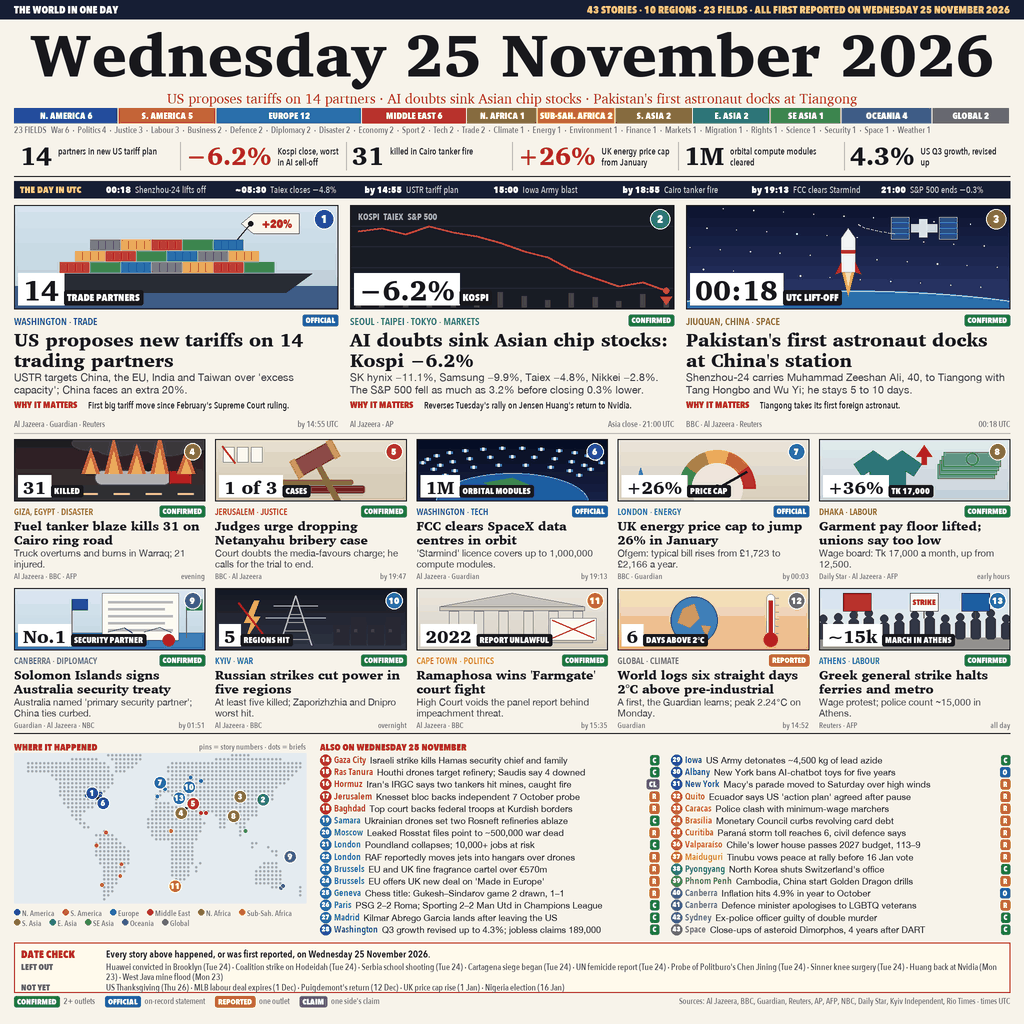
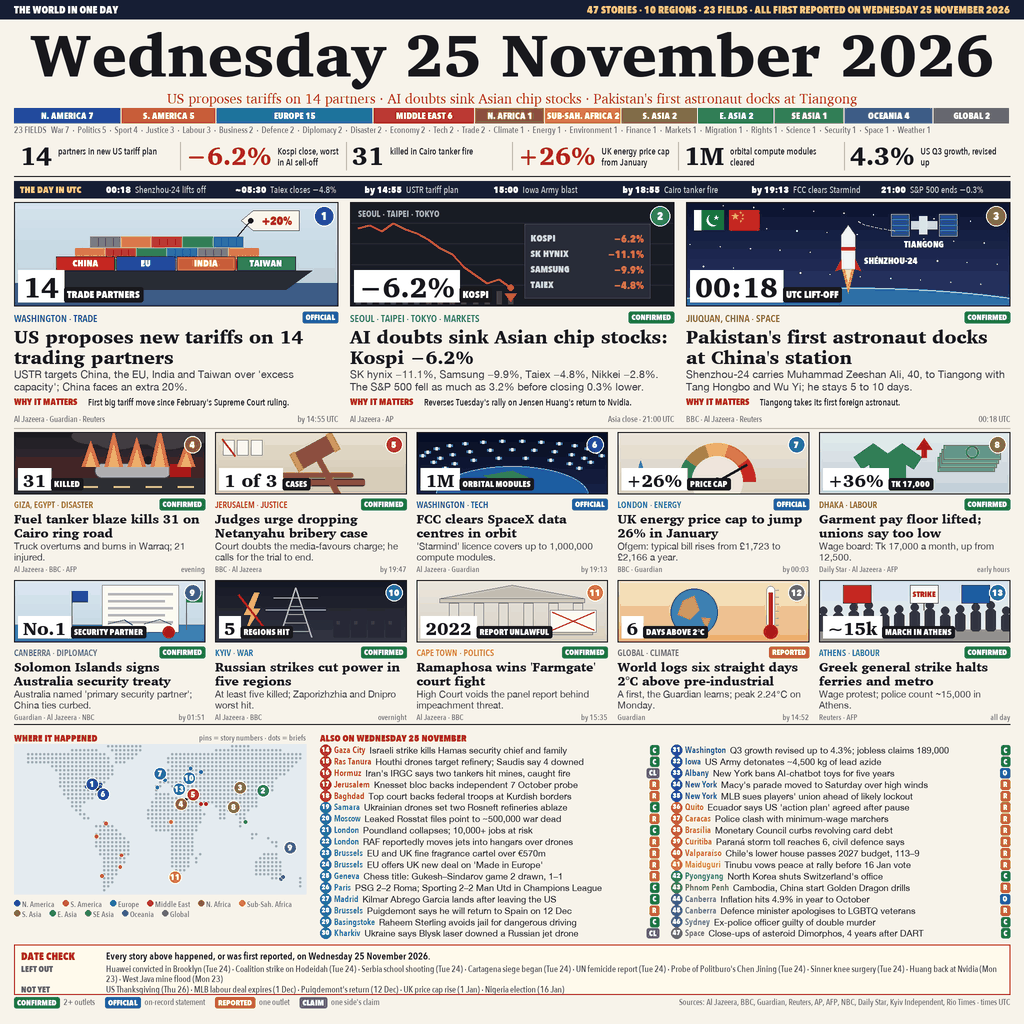
v5: labelled lead pictures (target names, ticker board, flags), 47 stories

diff --git a/render.py b/render.py
@@ -64,6 +64,15 @@ def ellipse(x, y, w, h, fill=None, outline=None, width=1):
     d.ellipse(P(x, y, x + w, y + h), fill=fill, outline=outline, width=round(width * S))
 
 
+def star(cx, cy, r, fill):
+    pts = []
+    for k in range(10):
+        a = -math.pi / 2 + k * math.pi / 5
+        rr = r if k % 2 == 0 else r * 0.42
+        pts.append((cx + rr * math.cos(a), cy + rr * math.sin(a)))
+    poly(pts, fill=fill)
+
+
 def tw(s, f):
     return d.textlength(s, font=f) / S
 
@@ -216,10 +225,14 @@ BRIEFS = [
     ("Geneva", "Europe", "Sport", "REPORTED", "Chess title: Gukesh–Sindarov game 2 drawn, 1–1", "Guardian", (46.2, 6.1)),
     ("Paris", "Europe", "Sport", "CONFIRMED", "PSG 2–2 Roma; Sporting 2–2 Man Utd in Champions League", "AJ, Guardian", (48.9, 2.3)),
     ("Madrid", "Europe", "Migration", "CONFIRMED", "Kilmar Abrego Garcia lands after leaving the US", "AJ, Reuters", (40.4, -3.7)),
+    ("Brussels", "Europe", "Politics", "REPORTED", "Puigdemont says he will return to Spain on 12 Dec", "AJ", (50.8, 4.4)),
+    ("Basingstoke", "Europe", "Sport", "CONFIRMED", "Raheem Sterling avoids jail for dangerous driving", "Guardian, BBC", (51.3, -1.1)),
+    ("Kharkiv", "Europe", "War", "CLAIM", "Ukraine says Blysk laser downed a Russian jet drone", "AJ", (50.0, 36.2)),
     ("Washington", "N. America", "Economy", "CONFIRMED", "Q3 growth revised up to 4.3%; jobless claims 189,000", "Boston Report, NTD", (38.9, -77.0)),
     ("Iowa", "N. America", "Environment", "CONFIRMED", "US Army detonates ~4,500 kg of lead azide", "AJ, BBC", (41.0, -91.0)),
     ("Albany", "N. America", "Tech", "OFFICIAL", "New York bans AI-chatbot toys for five years", "Guardian", (42.7, -73.8)),
     ("New York", "N. America", "Weather", "REPORTED", "Macy's parade moved to Saturday over high winds", "Guardian", (40.7, -74.0)),
+    ("New York", "N. America", "Sport", "REPORTED", "MLB sues players' union ahead of likely lockout", "Guardian", (40.7, -74.0)),
     ("Quito", "S. America", "Security", "REPORTED", "Ecuador says US 'action plan' agreed after pause", "AJ", (-0.2, -78.5)),
     ("Caracas", "S. America", "Labour", "REPORTED", "Police clash with minimum-wage marchers", "AJ", (10.5, -66.9)),
     ("Brasília", "S. America", "Finance", "REPORTED", "Monetary Council curbs revolving card debt", "Rio Times", (-15.8, -47.9)),
@@ -297,6 +310,13 @@ def pic_tariff(x, y, w, h):
             for k in range(1, 4):
                 line([(cx + k * cw / 4, cy + 1.5), (cx + k * cw / 4, cy + ch - 2.5)],
                      fill=tuple(max(0, v - 45) for v in col), width=0.7)
+    # front row: the named targets
+    names = [("CHINA", (196, 40, 40)), ("EU", (30, 70, 160)), ("INDIA", (220, 120, 30)), ("TAIWAN", (40, 120, 90))]
+    fw_ = w * 0.18
+    for i, (nm, col) in enumerate(names):
+        fx = x + w * 0.13 + i * (fw_ + 2)
+        rect(fx, hull_y - ch * 1.25, fw_, ch * 1.25, fill=col, outline=(20, 20, 24), width=0.5)
+        text(fx + fw_ / 2, hull_y - ch * 0.62, nm, font("heavy", 9.5), (255, 255, 255), anchor="mm")
     # tariff tag
     tx, ty = x + w * 0.70, y + h * 0.08
     poly([(tx, ty + 10), (tx + 12, ty), (tx + 58, ty), (tx + 58, ty + 20), (tx + 12, ty + 20)],
@@ -341,6 +361,21 @@ def pic_rocket(x, y, w, h):
         p0 = (rx + 10 + (sx - rx - 26) * t0, ry - 4 - (ry - sy - 10) * t0 ** 0.6)
         p1 = (rx + 10 + (sx - rx - 26) * t1, ry - 4 - (ry - sy - 10) * t1 ** 0.6)
         line([p0, p1], fill=(230, 230, 255), width=0.8)
+    text(sx + 11, sy + 16, "TIANGONG", font("heavy", 9), (255, 255, 255), anchor="mt")
+    text(rx + 16, ry + 36, "SHENZHOU-24", font("heavy", 9), (255, 255, 255), anchor="lm")
+    # flags: Pakistan and China
+    fx, fy, fw_, fh = x + 8, y + 8, 30, 20
+    rect(fx, fy, fw_, fh, fill=(255, 255, 255))
+    rect(fx + fw_ * 0.25, fy, fw_ * 0.75, fh, fill=(1, 102, 56))
+    cx_, cy_ = fx + fw_ * 0.62, fy + fh * 0.5
+    ellipse(cx_ - 6, cy_ - 6, 12, 12, fill=(255, 255, 255))
+    ellipse(cx_ - 4, cy_ - 7.5, 12, 12, fill=(1, 102, 56))
+    star(cx_ + 3.5, cy_ - 2.5, 2.4, (255, 255, 255))
+    gx = fx + fw_ + 5
+    rect(gx, fy, fw_, fh, fill=(222, 41, 16))
+    star(gx + 6, fy + 6, 3.6, (255, 222, 0))
+    for sx2, sy2 in ((11.5, 2.5), (13.5, 5), (13.5, 8.5), (11.5, 11)):
+        star(gx + sx2, fy + sy2, 1.2, (255, 222, 0))
 
 
 def pic_markets(x, y, w, h):
@@ -349,8 +384,16 @@ def pic_markets(x, y, w, h):
         line([(x, y + k * h / 5), (x + w, y + k * h / 5)], fill=(50, 56, 68), width=0.6)
     pts = []
     vals = [0.25, 0.22, 0.28, 0.20, 0.26, 0.30, 0.36, 0.44, 0.50, 0.62, 0.70, 0.78, 0.74, 0.82]
+    cwid = w * 0.52                              # chart on the left, ticker board on the right
     for i, v in enumerate(vals):
-        pts.append((x + 8 + i * (w - 16) / (len(vals) - 1), y + h * v))
+        pts.append((x + 8 + i * (cwid - 16) / (len(vals) - 1), y + h * v))
+    bx, bw = x + cwid + 6, w - cwid - 30
+    rect(bx, y + 22, bw, h - 30, fill=(40, 44, 56), outline=(80, 86, 100), width=0.6)
+    for k, (nm, val) in enumerate((("KOSPI", "−6.2%"), ("SK HYNIX", "−11.1%"), ("SAMSUNG", "−9.9%"),
+                                   ("TAIEX", "−4.8%"))):
+        yy = y + 30 + k * (h - 42) / 4
+        text(bx + 6, yy, nm, font("heavy", 9.5), (210, 214, 224))
+        text(bx + bw - 6, yy, val, font("heavy", 10.5), (255, 96, 80), anchor="ra")
     for i, (px, py) in enumerate(pts):          # volume bars
         bh = 6 + (i * 7 % 11)
         rect(px - 2.5, y + h - bh - 2, 5, bh, fill=(80, 60, 66) if i > 5 else (60, 80, 70))
@@ -358,7 +401,7 @@ def pic_markets(x, y, w, h):
     ex, ey = pts[-1]
     ellipse(ex - 3, ey - 3, 6, 6, fill=(235, 70, 60))
     poly([(ex - 6, ey + 6), (ex + 6, ey + 6), (ex, ey + 14)], fill=(235, 70, 60))
-    text(x + 8, y + 6, "KOSPI  TAIEX  S&P 500", font("bold", 9), (170, 176, 190))
+    text(x + 8, y + 6, "SEOUL · TAIPEI · TOKYO", font("bold", 9), (170, 176, 190))
 
 
 def pic_fire(x, y, w, h):
@@ -769,7 +812,7 @@ for i, (t, s) in enumerate(UTC):
          anchor="lm", maxw=seg - tw(t, font("heavy", 9.5)) - 8, tag="utc" + t)
 
 # leads
-ly, lh = uy + 24, 222
+ly, lh = uy + 21, 220
 gap = 12
 lw = (W - 2 * M - 2 * gap) / 3
 for i, s in enumerate(LEADS):
@@ -777,15 +820,15 @@ for i, s in enumerate(LEADS):
 line([(M, ly + lh + 6), (W - M, ly + lh + 6)], RULE, 0.8)
 
 # cards: two rows of five
-cy0, ch = ly + lh + 12, 140
+cy0, ch = ly + lh + 10, 140
 cg = 10
 cwid = (W - 2 * M - 4 * cg) / 5
 for i, s in enumerate(CARDS):
     r, c = divmod(i, 5)
-    small_card(s, M + c * (cwid + cg), cy0 + r * (ch + 9), cwid, ch)
+    small_card(s, M + c * (cwid + cg), cy0 + r * (ch + 8), cwid, ch)
 
 # bottom band: map + numbered briefs
-by = cy0 + 2 * ch + 9 + 9
+by = cy0 + 2 * ch + 8 + 8
 line([(M, by - 4), (W - M, by - 4)], INK, 1.2)
 mw, mh = 292, 150
 text(M, by + 4, "WHERE IT HAPPENED", font("heavy", 9.5), RED)
@@ -809,14 +852,14 @@ bx = M + mw + 14
 text(bx, by + 4, "ALSO ON WEDNESDAY 25 NOVEMBER", font("heavy", 9.5), RED)
 colw = (W - M - bx - 12) / 2
 per_col = math.ceil(len(BRIEFS) / 2)
-cityf = font("demi", 9.4)
-bf = font("sans", 9.0)
+cityf = font("demi", 9.2)
+bf = font("sans", 8.9)
 LETTER = {"CONFIRMED": "C", "OFFICIAL": "O", "REPORTED": "R", "CLAIM": "CL"}
 for i, (city, reg, fld, st, t, src, _) in enumerate(BRIEFS):
     n = len(ALL) + 1 + i
     col, row = divmod(i, per_col)
     xx = bx + col * (colw + 12)
-    yy = by + 18 + row * 12.1
+    yy = by + 17 + row * 11.45
     ellipse(xx, yy - 0.5, 11, 11, fill=RCOL[reg])
     text(xx + 5.5, yy + 5, str(n), font("heavy", 7.2), (255, 255, 255), anchor="mm")
     text(xx + 14, yy + 5, city, cityf, RCOL[reg], anchor="lm")
@@ -827,7 +870,7 @@ for i, (city, reg, fld, st, t, src, _) in enumerate(BRIEFS):
     chip(xx + colw, yy, lt, STATUS[st], f=font("heavy", 7.5), h=10, pad=2.5, anchor_right=True)
 
 # date check
-dy = by + 18 + per_col * 12.1 + 6
+dy = by + 17 + per_col * 11.45 + 5
 dh = 50
 rect(M, dy, W - 2 * M, dh, fill=(255, 250, 236), outline=RED, width=1.2)
 text(M + 7, dy + 5, "DATE CHECK", font("heavy", 10.5), RED)
@@ -839,7 +882,7 @@ text(M + 7, dy + 39.5, "NOT YET", font("heavy", 8.6), GREY)
 text(M + 92, dy + 39, NOT_YET, font("med", 8.8), (60, 60, 66), maxw=W - 2 * M - 100, tag="notyet")
 
 # legend + sources
-gy = dy + dh + 9
+gy = dy + dh + 8
 x0 = M
 for k, v in STATUS.items():
     x0 += chip(x0, gy - 5.5, k, v, f=font("heavy", 7.8), h=11) + 4

diff --git a/FACTS.md b/FACTS.md
@@ -43,6 +43,10 @@ by the body concerned · **REPORTED** = one outlet · **CLAIM** = one side's sta
 | Paraná: storm toll reaches 6, civil defence confirms 25 Nov | Rio Times; AFP via Insider Paper | REPORTED |
 | RAF reportedly moving jets into hangars over drone threat (Times, Sky; MoD does not confirm) | Al Jazeera 19:15 | REPORTED |
 | Macy's Thanksgiving parade moved to Saturday over high winds | Guardian 21:08 | REPORTED |
+| MLB sues players' union in Manhattan federal court ahead of likely lockout | Guardian 18:53 | REPORTED |
+| Puigdemont says (from Brussels) he will return to Spain on 12 Dec | Al Jazeera 12:25 | REPORTED |
+| Raheem Sterling: 12-month suspended sentence for dangerous driving | Guardian 11:34; Al Jazeera; BBC 17:17 | CONFIRMED |
+| Ukraine says its Blysk laser downed a Russian jet-powered drone | Al Jazeera video 25 Nov | CLAIM |
 | Australia's defence minister apologises to LGBTQ veterans | Guardian video 25 Nov | REPORTED |
 | Iraq: Federal Supreme Court says federal troops may deploy at Kurdish-region borders | Al Jazeera 17:29 (state TV) | REPORTED |
 | Iowa: US Army detonates ~4,500 kg of lead azide at ~15:00 UTC | Al Jazeera 15:14; BBC 14:05; Guardian; CNN | CONFIRMED |

diff --git a/README.md b/README.md
@@ -4,7 +4,7 @@
 [![rank](https://make.fun/badge/news-image-20261125/GAD2412/world-news-2026-11-25/rank.svg)](https://make.fun/bounty/news-image-20261125/leaderboard?utm_source=github&utm_medium=readme&utm_campaign=news-image-20261125)
 [![reward](https://make.fun/badge/news-image-20261125/GAD2412/world-news-2026-11-25/reward.svg)](https://make.fun/bounty/news-image-20261125?utm_source=github&utm_medium=readme&utm_campaign=news-image-20261125)
 
-One front page summing up the world news of Wednesday 25 November 2026: 43 stories across
+One front page summing up the world news of Wednesday 25 November 2026: 47 stories across
 10 regions plus global items, each tagged CONFIRMED, OFFICIAL, REPORTED or CLAIM, with a UTC
 timeline, the day in numbers, a dotted world map and a date check of earlier news left out.
 `render.py` draws the page with Pillow and macOS system fonts (2x, LANCZOS, 240 colours);
